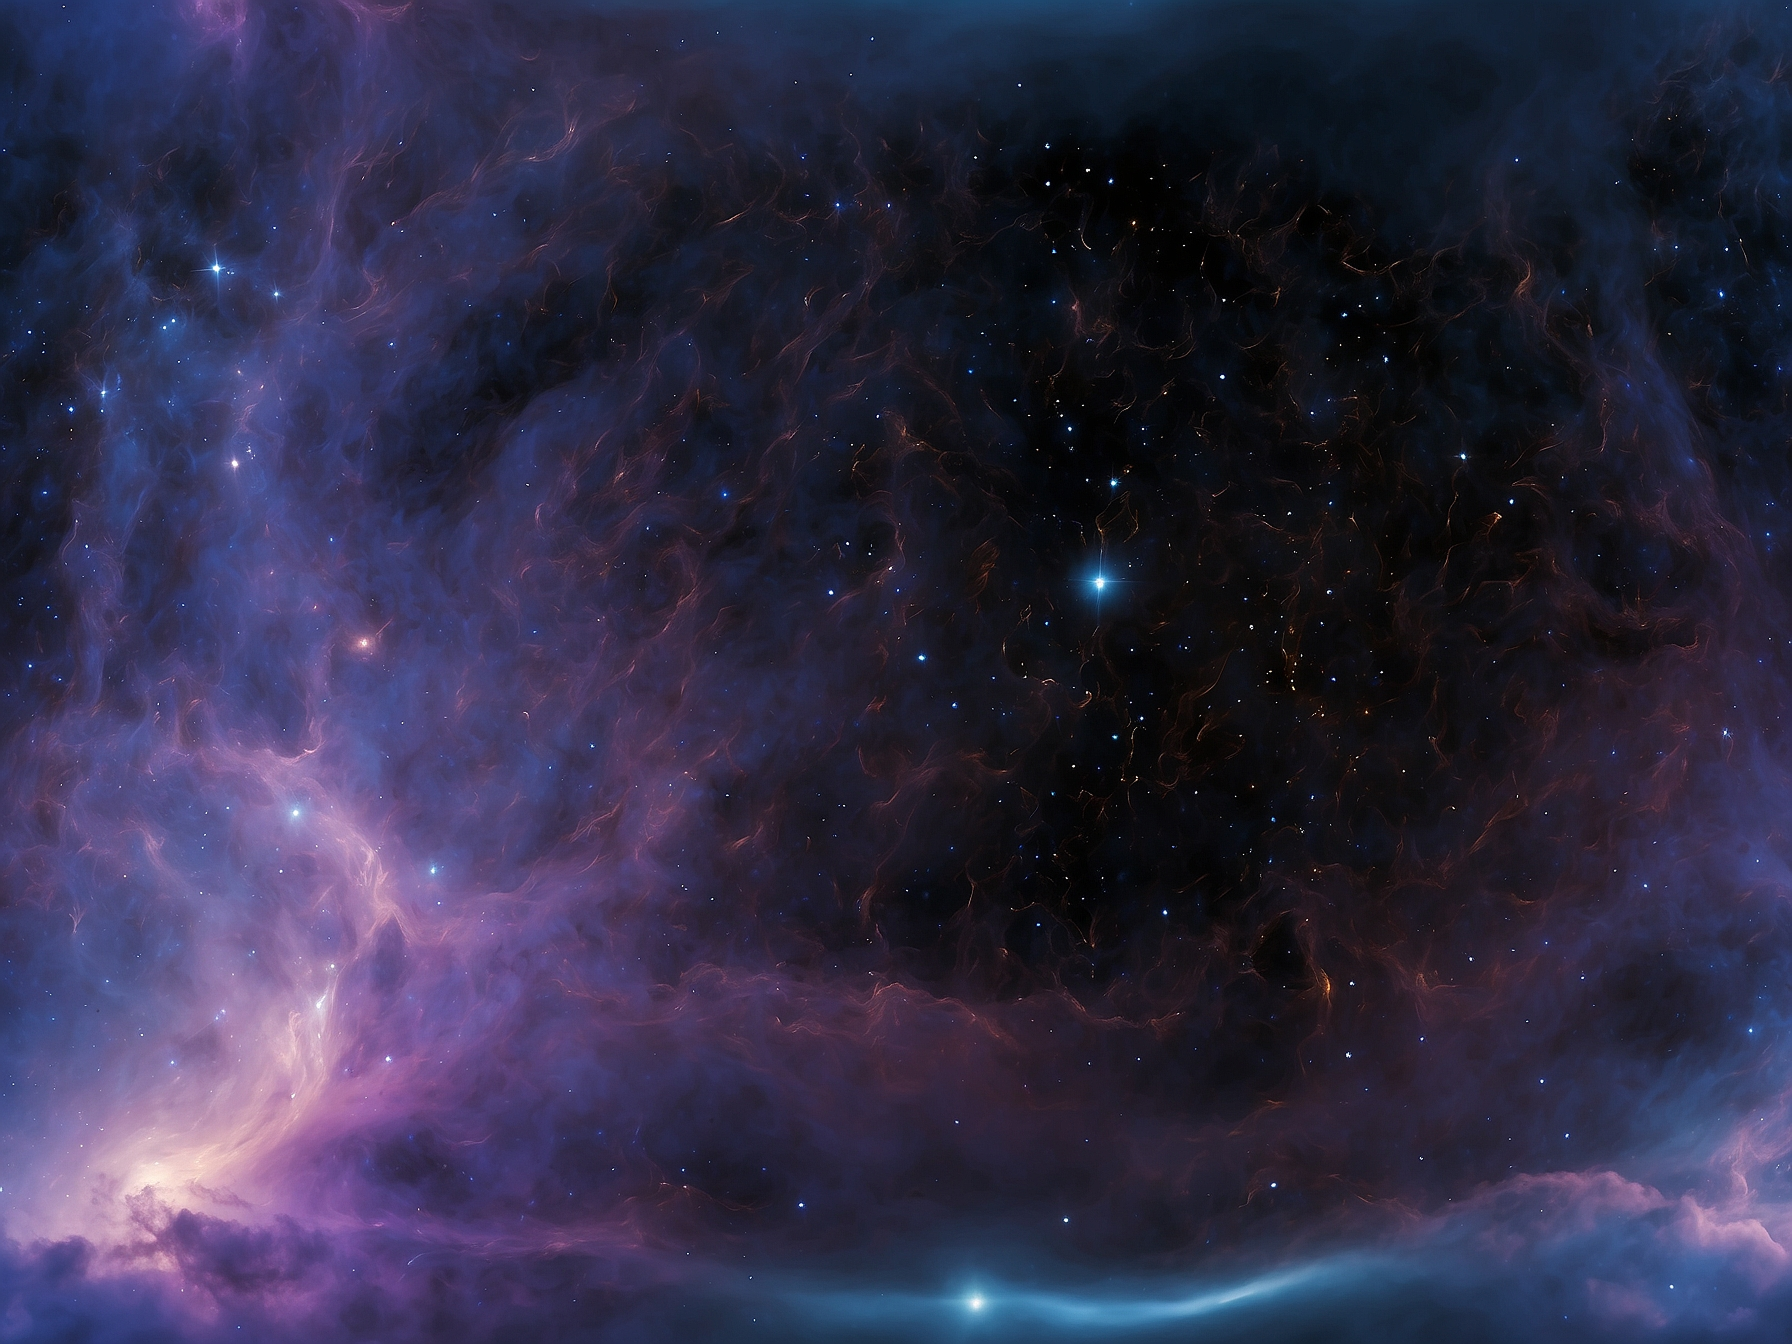
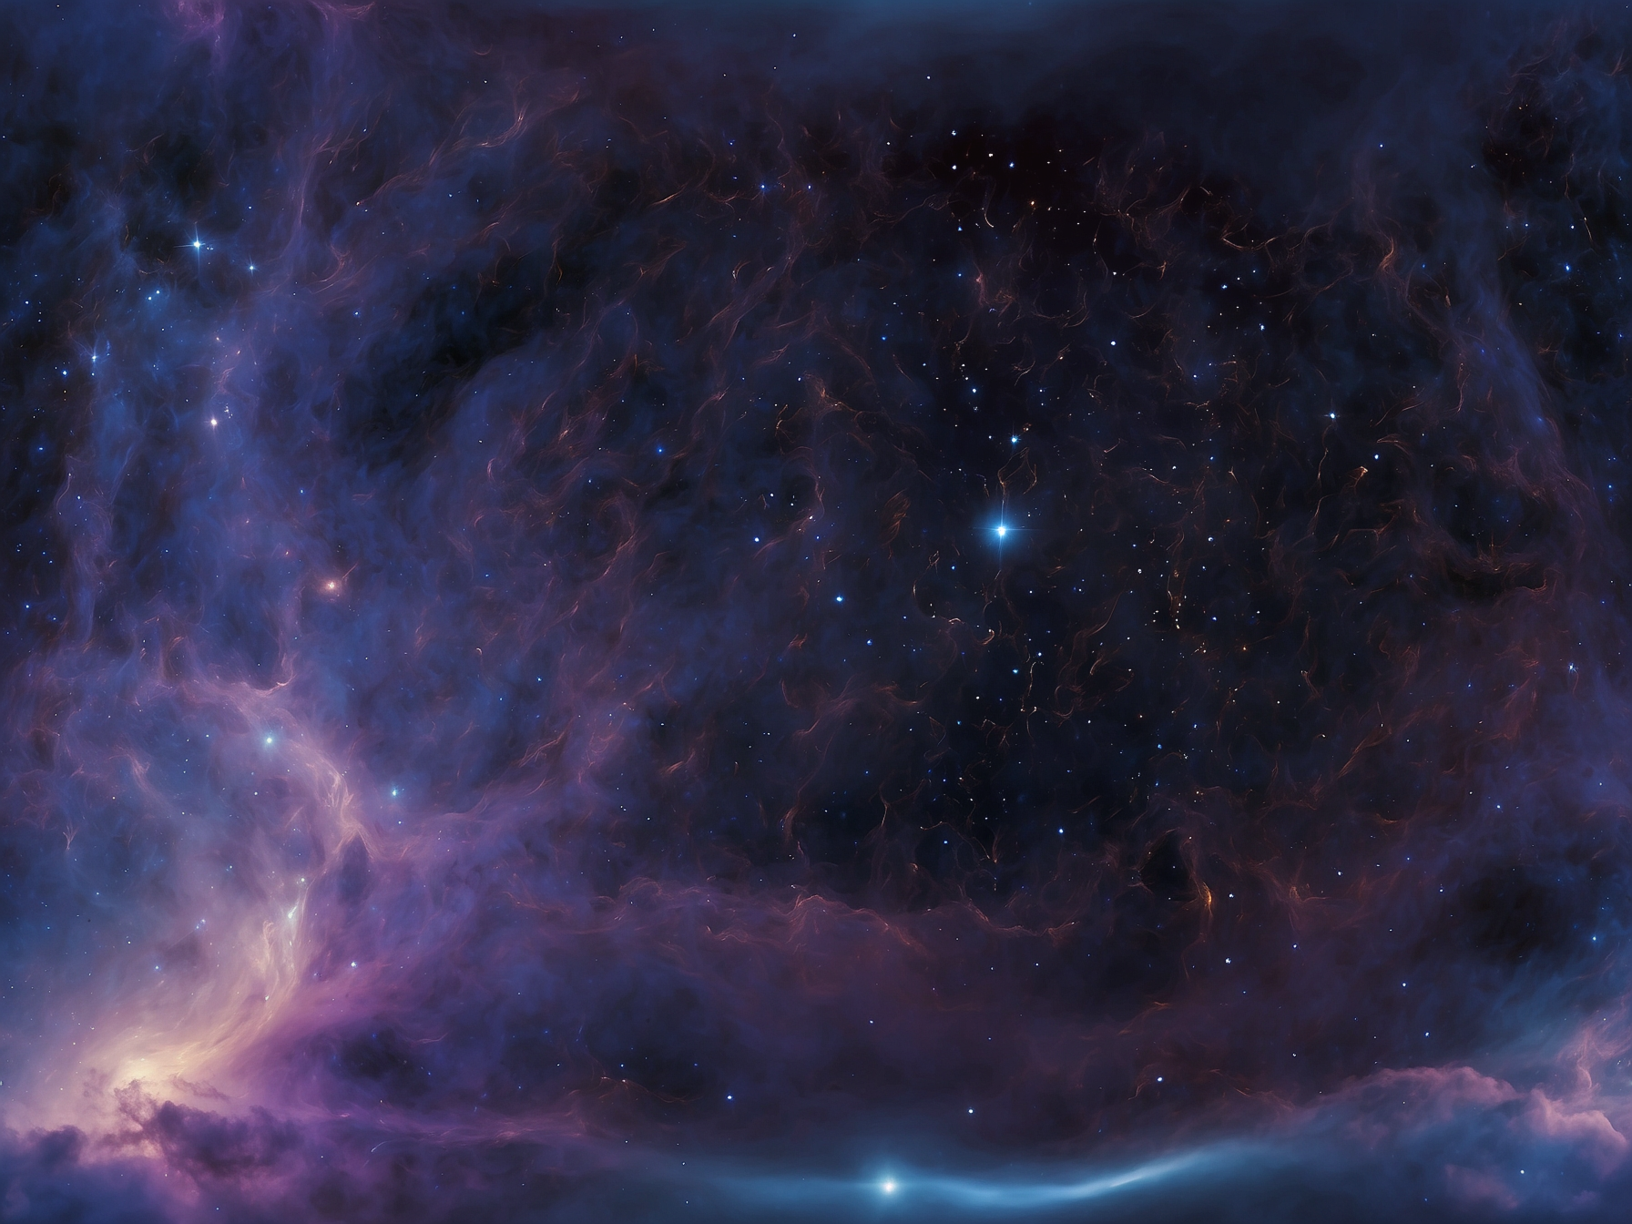
Планета + скорость

diff --git a/src/App.js b/src/App.js
@@ -12,6 +12,9 @@ function App() {
       width: window.innerWidth,
       height: window.innerHeight,
       parent: gameRef.current,
+      render: {
+        roundPixels: true,
+      },
       scale: {
         mode: Phaser.Scale.RESIZE,
         autoCenter: Phaser.Scale.CENTER_BOTH,
@@ -26,18 +29,22 @@ function App() {
       scene: { preload, create, update },
     };
 
-    let ship, asteroids, spaceBack, scoreText;
+    let ship, asteroids, spaceBack, planetParallax, stars, scoreText;
     let score = 0;
+    const publicBase = (process.env.PUBLIC_URL || "").replace(/\/$/, "");
+    const asset = (name) => `${publicBase}/${name}`;
 
     function preload() {
-      this.load.image("space", "space.png");
-      this.load.image("ship", "ship.png");
-      this.load.image("asteroid", "asteroid.png");
+      this.load.image("space", asset("space.png"));
+      this.load.image("planet", asset("planet.png"));
+      this.load.image("ship", asset("ship.png"));
+      this.load.image("asteroid", asset("asteroid.png"));
     }
 
     function create() {
       const { width, height } = this.scale;
 
+      this.textures.get("space").setFilter(Phaser.Textures.FilterMode.NEAREST);
       spaceBack = this.add.tileSprite(
         width / 2,
         height / 2,
@@ -45,13 +52,45 @@ function App() {
         height,
         "space",
       );
-      spaceBack.setDisplaySize(width, height);
+      const spaceTexture = this.textures.get("space").getSourceImage();
+      const bgScale = Math.max(
+        width / spaceTexture.width,
+        height / spaceTexture.height,
+      );
+      spaceBack.setTileScale(bgScale, bgScale);
+      spaceBack.setDepth(0);
+
+      planetParallax = this.add.image(width * 0.78, height * 0.26, "planet");
+      planetParallax.setDepth(1);
+      const planetTargetH = height * 0.36;
+      planetParallax.setScale(planetTargetH / planetParallax.height);
+      planetParallax.setAlpha(0.82);
+      planetParallax.setTint(0x9bb7ff);
+
+      // Рухомий шар зірок для відчуття польоту без шва фону
+      stars = this.add.group();
+      for (let i = 0; i < 120; i++) {
+        const size = Phaser.Math.Between(1, 3);
+        const star = this.add.rectangle(
+          Phaser.Math.Between(0, width),
+          Phaser.Math.Between(0, height),
+          size,
+          size,
+          0xffffff,
+          Phaser.Math.FloatBetween(0.35, 1),
+        );
+        star.speed = Phaser.Math.FloatBetween(10, 24);
+        star.setDepth(1);
+        stars.add(star);
+      }
 
       ship = this.physics.add.sprite(width * 0.15, height / 2, "ship");
 
       // КОРАБЕЛЬ ВДВІЧІ МЕНШИЙ (було 100 пікселів, тепер 50)
       const shipScale = 50 / ship.height;
       ship.setScale(shipScale);
+
+      ship.setDepth(2);
 
       ship.setCollideWorldBounds(true);
       ship.setDamping(true);
@@ -61,6 +100,7 @@ function App() {
 
       const spawnAst = (x, y) => {
         const ast = asteroids.create(x, y, "asteroid");
+        ast.setDepth(2);
         ast.body.allowGravity = false;
         const size = Phaser.Math.Between(60, 120);
         ast.setScale(size / ast.height);
@@ -82,6 +122,7 @@ function App() {
       });
       // Додаємо ефект світіння (shadow)
       scoreText.setShadow(0, 0, "#00ffff", 15, true, true);
+      scoreText.setDepth(10);
 
       this.physics.add.overlap(ship, asteroids, () => {
         score = 0;
@@ -91,7 +132,23 @@ function App() {
 
     function update() {
       const { width, height } = this.scale;
-      spaceBack.tilePositionX += 2;
+      const bgScroll = 16;
+      spaceBack.tilePositionX += bgScroll;
+      const planetScroll = 0.45;
+      planetParallax.x -= planetScroll;
+      const halfW = planetParallax.displayWidth * 0.5;
+      if (planetParallax.x < -halfW) {
+        planetParallax.x = width + halfW + Phaser.Math.Between(80, 280);
+        planetParallax.y = Phaser.Math.Between(height * 0.08, height * 0.34);
+      }
+      stars.getChildren().forEach((star) => {
+        star.x -= star.speed;
+        if (star.x < -4) {
+          star.x = width + Phaser.Math.Between(2, 30);
+          star.y = Phaser.Math.Between(0, height);
+          star.speed = Phaser.Math.FloatBetween(10, 24);
+        }
+      });
 
       const cursors = this.input.keyboard.createCursorKeys();
       const isDown =